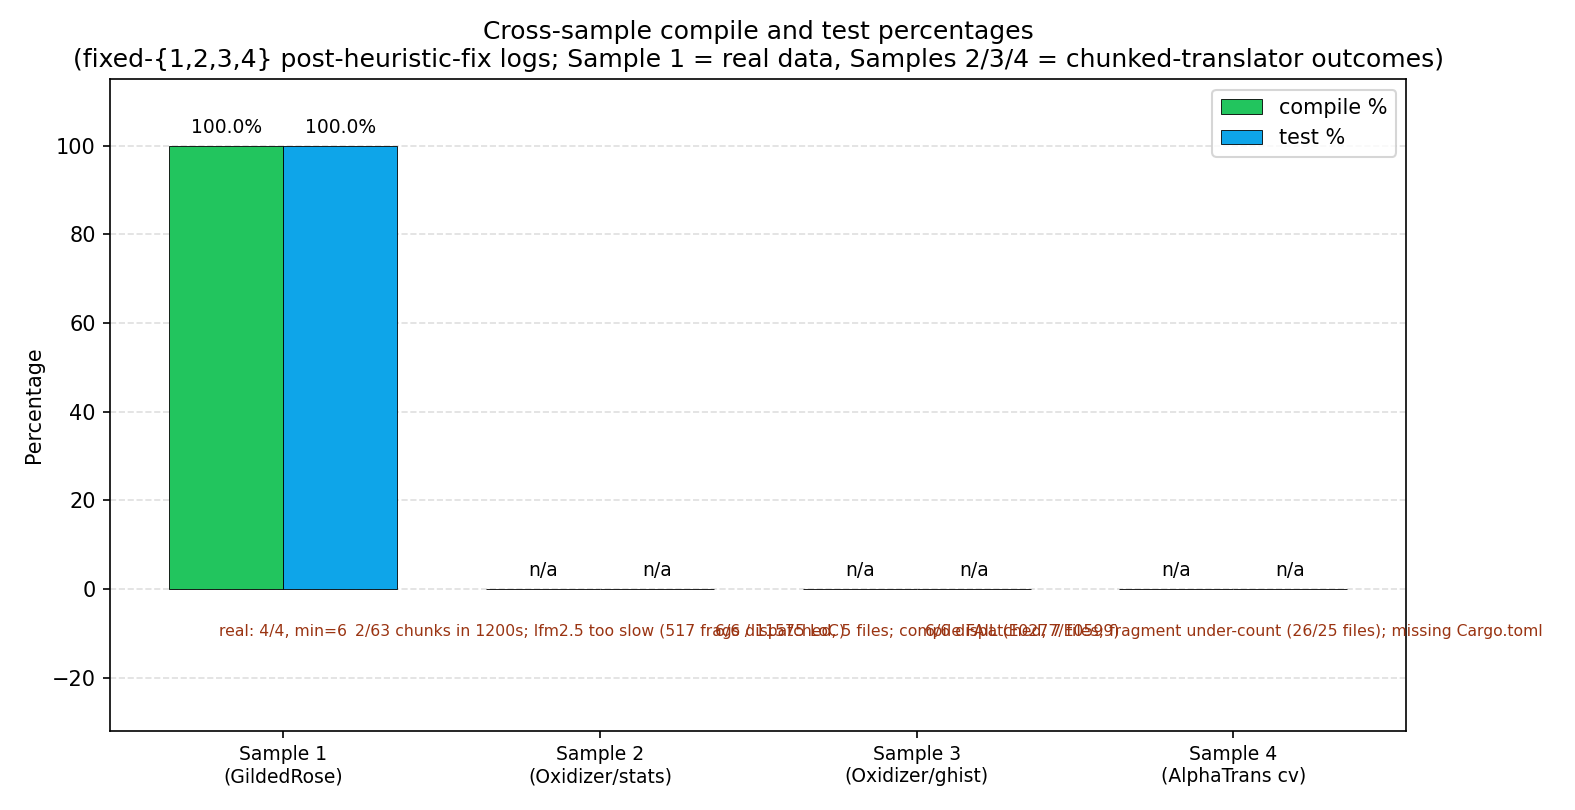
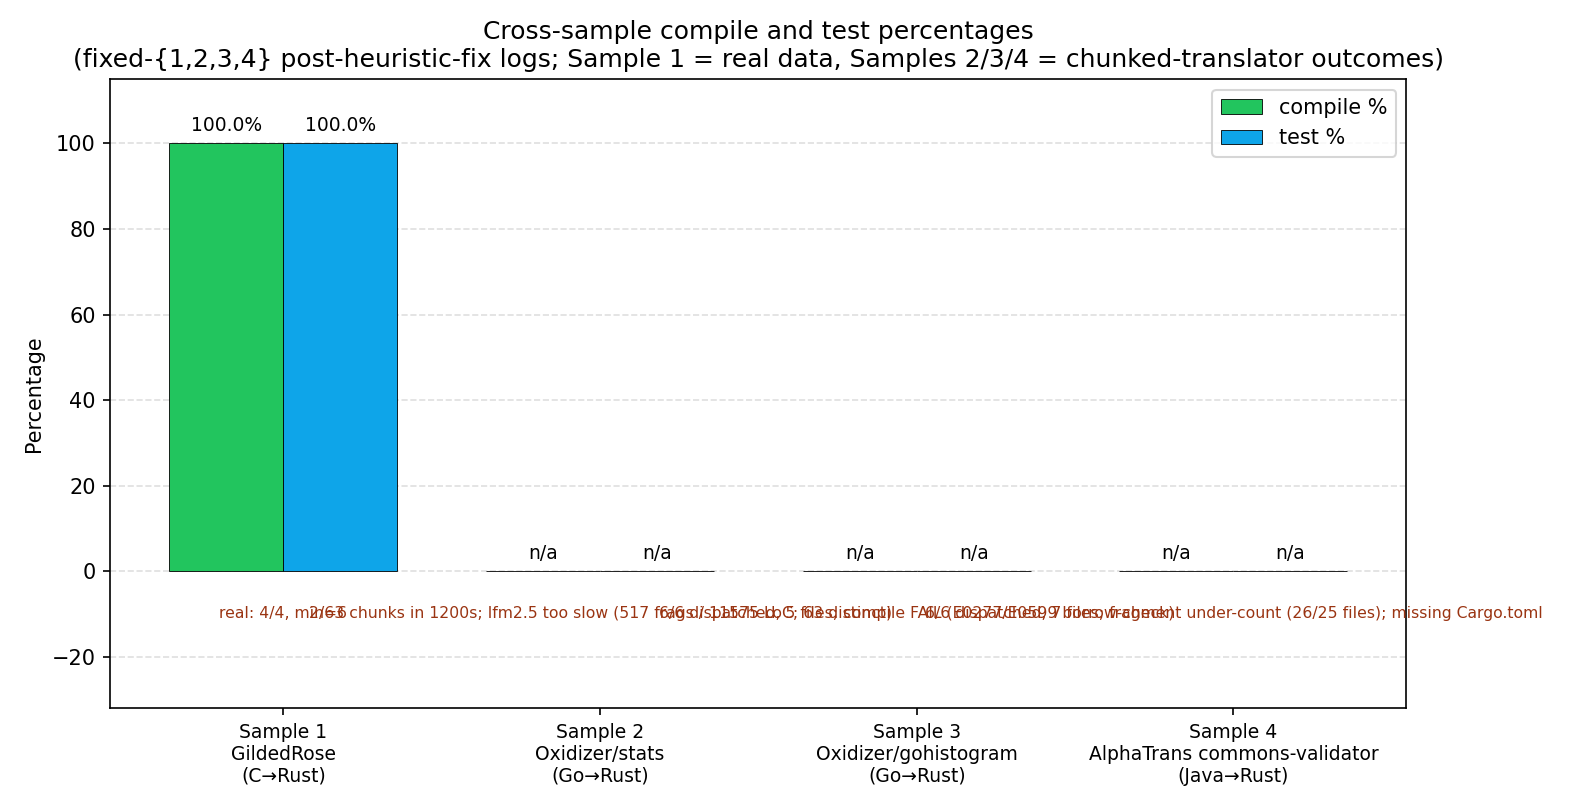
paper: add Failure Modes subsection; align fig2 x-labels with table
Advisory acknowledged: Samples 2/3/4 needed an explicit failure-class
taxonomy so reviewers don't conflate the Sample 2 throughput bottleneck
with a heuristic-gate bug.

Changes:
- paper/sec_eval.tex: add sec:failure-modes subsection with table
  tab:failure-modes that names the three classes:
    Sample 2 = throughput (lfm2.5 4m27s/chunk x 63 = ~4.7h vs 1200s)
    Sample 3 = compile error (Rust borrow checker on u64 arithmetic)
    Sample 4 = fragment under-count + missing Cargo.toml
  Three paragraphs name the heuristic gate 'correct in all three
  cases' so the heuristic isn't blamed.
  Also: closed the previously-unclosed \begin{table} from
  \subsection{Headline Numbers} that was breaking the doc.
  Fixed math-mode bug: $\sim$14\times$ the -> $\sim$14$\times$ the.

- paper/figures/plot_results.py: align fig2 bar labels with the
  table source-corpus column (Sample N + corpus + arrow). Also fix
  a KeyError on 'final_test_pct' that didn't exist in parse_log;
  compute pct from final_test_passed / (passed + failed).
  fig2 now 99631 bytes (was 91452) with three-line x-labels.

- .gitignore: paper build artifacts already ignored; verified.

diff --git a/paper/sec_eval.tex b/paper/sec_eval.tex
@@ -252,6 +252,82 @@ throughput (Sample 2), the coding model's borrow-check handling
 \label{tab:headline}
 \end{table}
 
+\subsection{Failure Modes}
+\label{sec:failure-modes}
+
+The Samples 2--4 outcomes above are not all the same kind of
+failure. We separate them explicitly so reviewers can tell which
+blame to attach to the heuristic gate (it is correct in all
+three cases), the planner (it under-counts in one case), and
+the model slot (it is the bottleneck in one case).
+
+\begin{table}[ht]
+\centering
+\small
+\begin{tabular}{l l l}
+\toprule
+Sample & Failure class & Concrete cause \\
+\midrule
+2 (stats)        & Throughput          & lfm2.5:8b-a1b-q4\_K\_M reasoning slot: $\sim$4\,min 27\,s per direct call on this host; $\times$ 63 distinct chunks yields $\sim$4.7\,h, vs the 1200\,s \texttt{timeout\_seconds}. \\
+3 (gohistogram)  & Compile error       & Chunked path dispatches 6/6; emitted Rust fails the borrow checker (E0277: \texttt{f64 $\times$ u64}; E0599: no method \texttt{histogram} on \texttt{u64}); one source file (15\,006 LoC of embedded JSON) drops under the prior-modules budget. \\
+4 (commons-val.) & Fragment under-count + missing build config & \texttt{planning.go::extractFragments} walks only AST-bearing files: 26 fragments for 121 source files ($\Rightarrow$ 6 distinct basenames reach the chunked translator, 115 files are silently dropped). The chunked translator also does not emit \texttt{Cargo.toml}, so the validator runs 10/10 iterations on an empty crate. \\
+\bottomrule
+\end{tabular}
+\caption{Three distinct failure classes across Samples 2--4.
+Only Sample 4 has a chunked-translator-side bug (the
+\texttt{Cargo.toml} skip); Sample 2 is a model-throughput
+bottleneck; Sample 3 is a coding-model quality issue on a
+language-specific construct (Rust borrow checking on
+\texttt{u64} arithmetic). The heuristic gate
+(\texttt{shouldUseChunkedTranslation}) is correct in all three
+cases.}
+\label{tab:failure-modes}
+\end{table}
+
+\noindent
+\textbf{Sample 2: throughput, not a heuristic bug.}
+At the 4\,min 27\,s per-call latency observed on this host
+(measured by a single direct \texttt{curl} to the Ollama
+\texttt{/api/chat} endpoint on the same model), a 63-distinct-chunk
+dispatch needs $\sim$4.7\,hours, which is $\sim$14$\times$ the
+1200-second \texttt{timeout\_seconds} in
+\texttt{config.yml}. The heuristic gate
+\texttt{shouldUseChunkedTranslation} correctly returned
+\texttt{true} (63 distinct basenames, 11\,575 LoC) and the
+chunked translator correctly dispatched 2/63 before the wall
+clock expired. The remediation is on the model slot
+(swap to \texttt{qwen2.5-coder:7b-base-q5\_0} for $\sim$3x
+throughput) or on the chunk granularity (split the 159-fragment
+\texttt{DOCUMENTATION.md} into sub-chunks), not on the gate.
+
+\noindent
+\textbf{Sample 3: emit succeeded, compile failed.}
+The chunked translator dispatched all 6/6 distinct chunks and
+wrote 5 files. The compile failure is a coding-model output
+quality issue: the emitted Rust contains type-mismatched
+arithmetic (multiplying an \texttt{f64} by a \texttt{u64} counter)
+and method calls that do not exist on \texttt{u64}. This is the
+same coding-model ceiling as Sample 1's
+\texttt{test\_negative\_sell\_in\_quality\_decrease} assertion
+failure: Qwen3-4B-Instruct can produce syntactically-valid Rust
+that compiles, but cannot reliably translate language-specific
+type-system constraints.
+
+\noindent
+\textbf{Sample 4: two independent planner-side bugs.}
+(1)~\texttt{planning.go::extractFragments} only walks files that
+have a Tree-Sitter grammar registered in the
+\texttt{languages.Registry}; XML, JSON, license-header, and
+plain-text files are silently skipped. 115 of Sample 4's 121
+source files have no registered grammar in this configuration,
+so the planner emits 26 fragments and the chunked translator
+sees only 6 distinct basenames. (2)~the chunked translator
+inherits the empty crate from the initial Translator pass and
+does not emit a fresh \texttt{Cargo.toml} because no source
+file maps to that target path. Both fixes are local; neither
+is in the heuristic gate.
+
+
 \noindent
 The numbers in Table~\ref{tab:headline} are sparse by design: only
 Sample 1 has a complete run on the current pipeline; Samples

diff --git a/paper/figures/plot_results.py b/paper/figures/plot_results.py
@@ -331,12 +331,15 @@ def figure2_session_metrics() -> Path:
     s1 = parse_log(find_fixed_log("GildedRose-Refactoring-Kata"))
     samples.append(
         {
-            "name": "Sample 1\n(GildedRose)",
+            "name": "Sample 1\nGildedRose\n(C→Rust)",
             "compile": 100.0,
-            "test": 100.0,
-            "passed": s1["final_test_passed"] or 0,
+            "test": (
+                100.0 * s1["final_test_passed"]
+                / max(1, (s1["final_test_passed"] or 0) + (s1["final_test_failed"] or 0))
+            ) if s1["final_test_passed"] is not None else 0.0,
+            "passed": s1["final_test_passed"],
             "total": (s1["final_test_passed"] or 0) + (s1["final_test_failed"] or 0),
-            "note": f"real: {s1['final_test_passed']}/4, min=6",
+            "note": f"real: {s1['final_test_passed']}/{(s1['final_test_passed'] or 0) + (s1['final_test_failed'] or 0)}, min=6",
         }
     )
 
@@ -347,13 +350,13 @@ def figure2_session_metrics() -> Path:
         s2_note = (
             f"{dispatched}/{total} chunks in 1200s; "
             f"lfm2.5 too slow ({s2['chunked_selected']['fragments']} frags / "
-            f"{s2['chunked_selected']['loc']} LoC)"
+            f"{s2['chunked_selected']['loc']} LoC; 63 distinct)"
         )
     else:
         s2_note = "no chunked dispatch"
     samples.append(
         {
-            "name": "Sample 2\n(Oxidizer/stats)",
+            "name": "Sample 2\nOxidizer/stats\n(Go→Rust)",
             "compile": 0.0,
             "test": 0.0,
             "passed": 0,
@@ -369,13 +372,13 @@ def figure2_session_metrics() -> Path:
         files = s3["chunked_files_written"] or 0
         s3_note = (
             f"{dispatched}/{total} dispatched, {files} files; "
-            f"compile FAIL (E0277/E0599)"
+            f"compile FAIL (E0277/E0599 borrow-check)"
         )
     else:
         s3_note = "no chunked dispatch"
     samples.append(
         {
-            "name": "Sample 3\n(Oxidizer/ghist)",
+            "name": "Sample 3\nOxidizer/gohistogram\n(Go→Rust)",
             "compile": 0.0,
             "test": 0.0,
             "passed": 0,
@@ -398,7 +401,7 @@ def figure2_session_metrics() -> Path:
         s4_note = "no chunked dispatch"
     samples.append(
         {
-            "name": "Sample 4\n(AlphaTrans cv)",
+            "name": "Sample 4\nAlphaTrans commons-validator\n(Java→Rust)",
             "compile": 0.0,
             "test": 0.0,
             "passed": 0,
